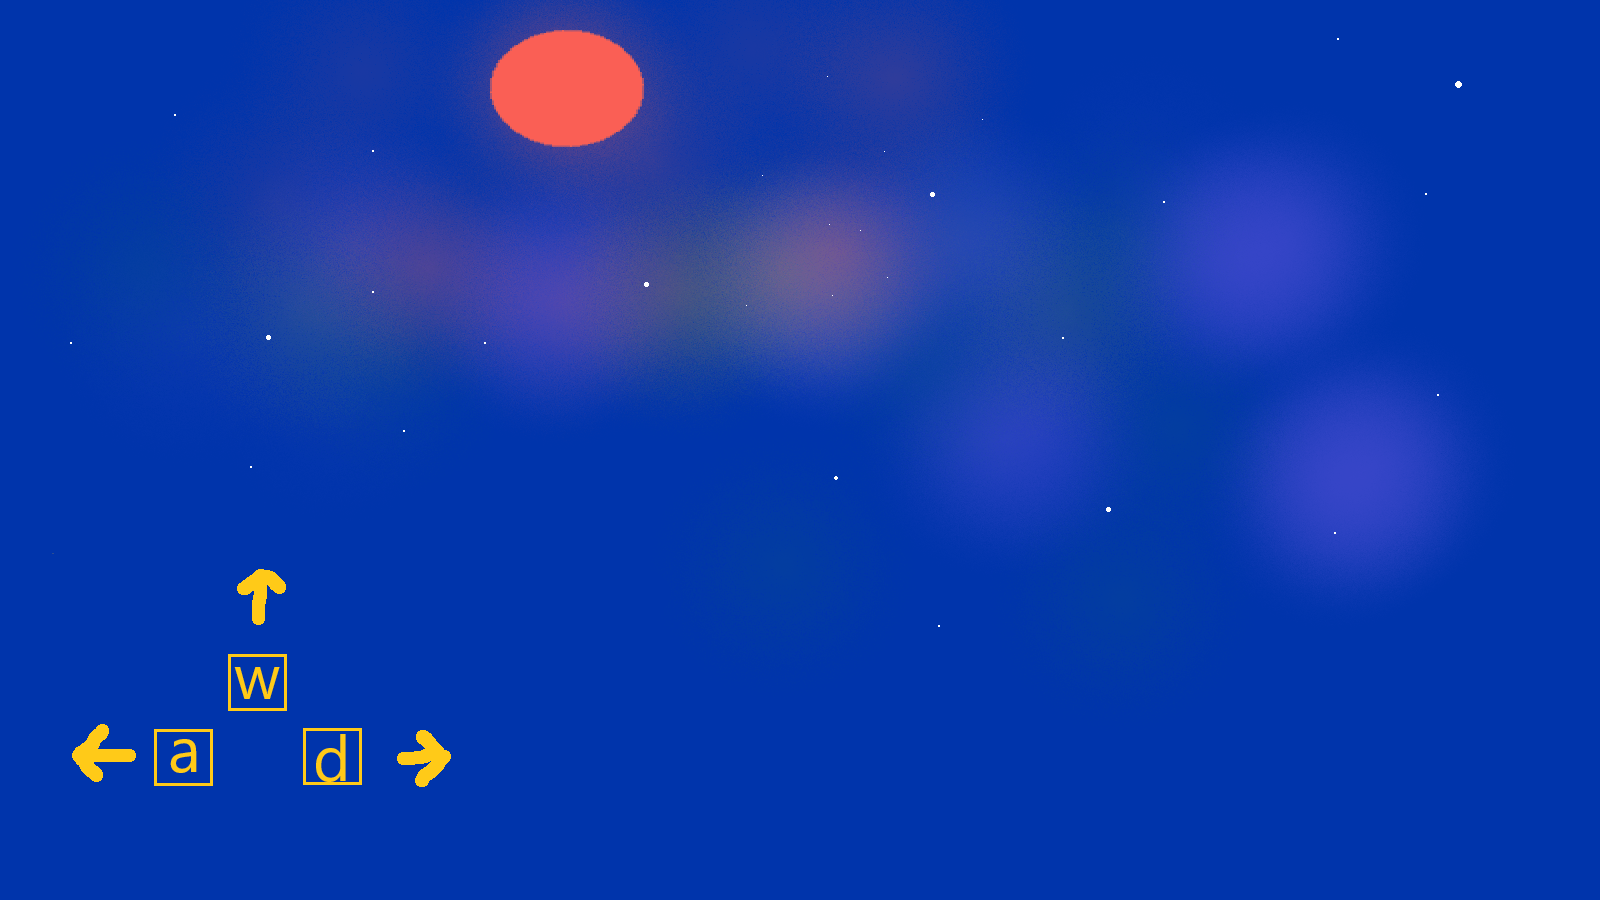
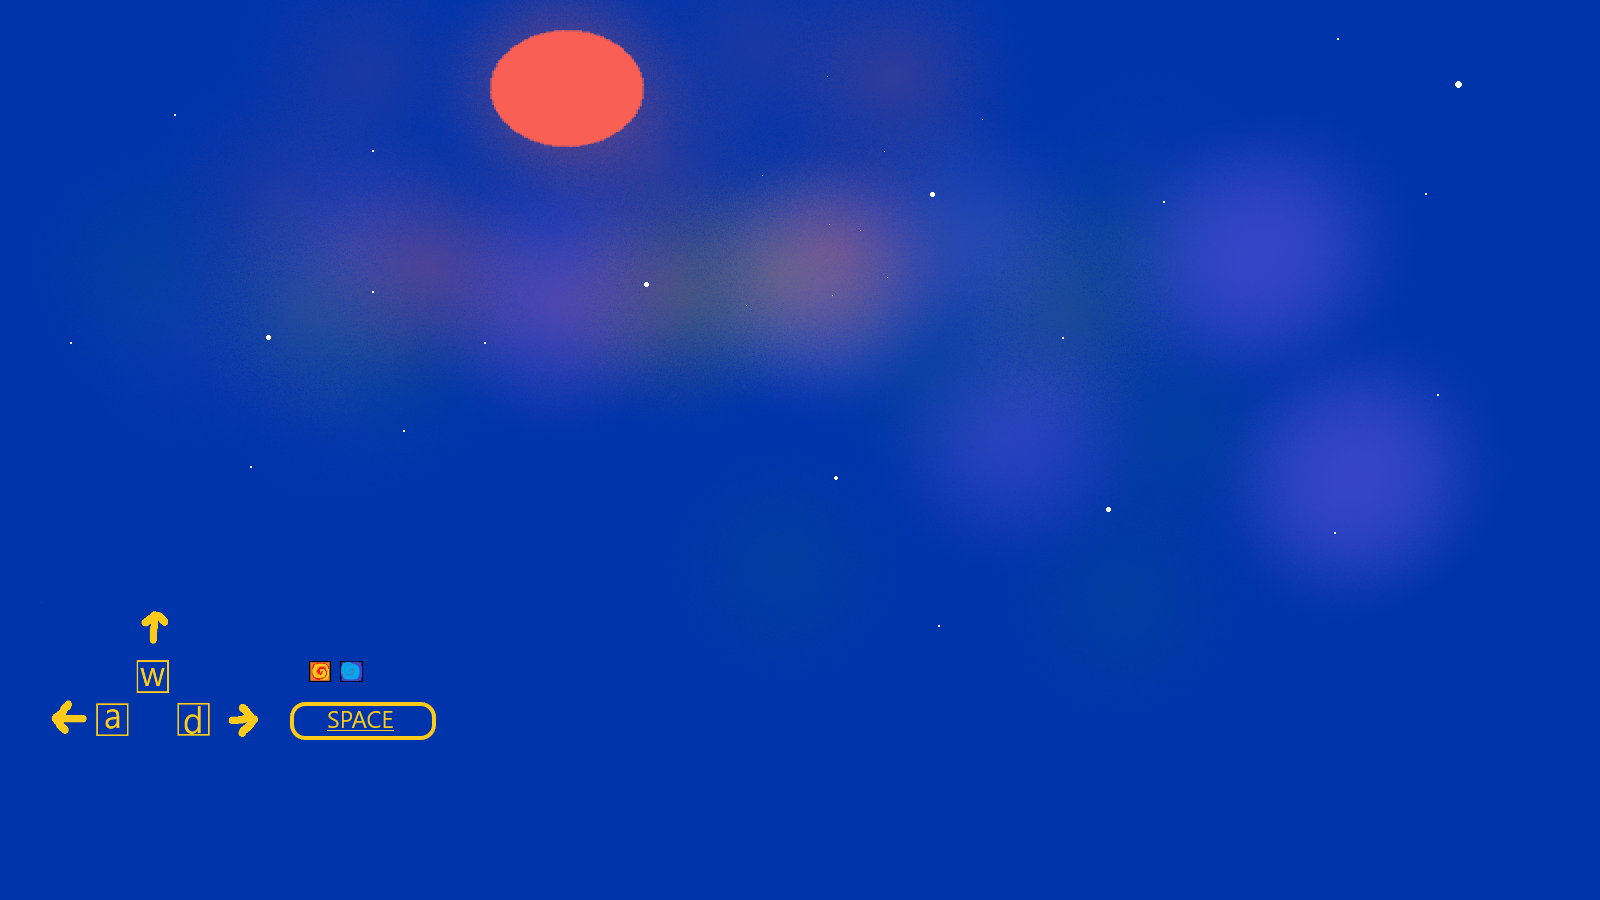
made a slight graphical variation between treddo and rose also quickly added some rudimentary textual displays in the character window. also updated the version from 0.0.3 to v 0.4 "fightingback"

Changed region(s): [[0.0312, 0.7156, 0.2812, 0.8711], [0.1562, 0.6222, 0.1875, 0.6844], [0.0938, 0.6844, 0.125, 0.7156]]

diff --git a/SlimeHopInfinity.py b/SlimeHopInfinity.py
@@ -32,7 +32,7 @@ pygame.init()
 
 
 # Set the window title
-pygame.display.set_caption("Slime Hop Inifinity    Version 0.0.3       03/25/2024          Tristan Dombroski")
+pygame.display.set_caption("Slime Hop Inifinity              Version 0.4 'Fighting Back Update'              04/21/2024 Tristan Dombroski")
 
 
 # Set up the window dimensions
@@ -246,7 +246,13 @@ player_health = 5
 
 #shooting
 # Projectile setup
+#treddo's fireball
 fireball_image = pygame.image.load('graphics/fireball.png')
+
+#rose's watershot
+watershot_image = pygame.image.load('graphics/watershot.png')
+
+
 fireball_rect = None
 #fireball_rect = fireball_image.get_rect()
 
@@ -538,7 +544,7 @@ while True:
             current_time = pygame.time.get_ticks()
 
 
-            fireball_rect = fireball_image.get_rect()
+            fireball_rect = watershot_image.get_rect()
             fireball_rect.center = rose_image_rect.center
 
             #grabs the current position of the mouse
@@ -739,6 +745,10 @@ while True:
         #removes blitting the slimes on the screen during the menu phase
         #earthslime_rect_list.remove(slime_rect)
         earthslime_rect_list.clear()
+
+
+        #clears the projectiles shot during the GAME state
+        fireballs.clear()
 
         #reset the players position, score, and health in game through the menu
         #treddo_image_rect.bottomleft = (0, window_height - tile_size)
@@ -1012,7 +1022,10 @@ while True:
             fireball_rect.y += direction[1] * fireball_speed
 
             #render the fireball
-            screen.blit(fireball_image, fireball_rect)
+            if selected_player == "Treddo":
+                screen.blit(fireball_image, fireball_rect)
+            if selected_player == "Rose":
+                screen.blit(watershot_image, fireball_rect)
 
         
             
